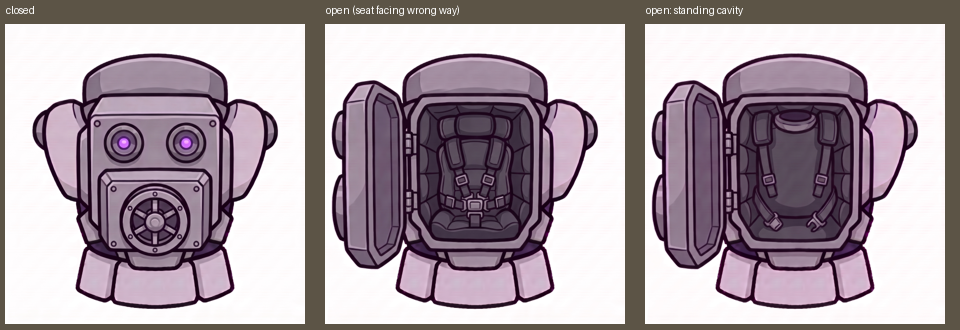
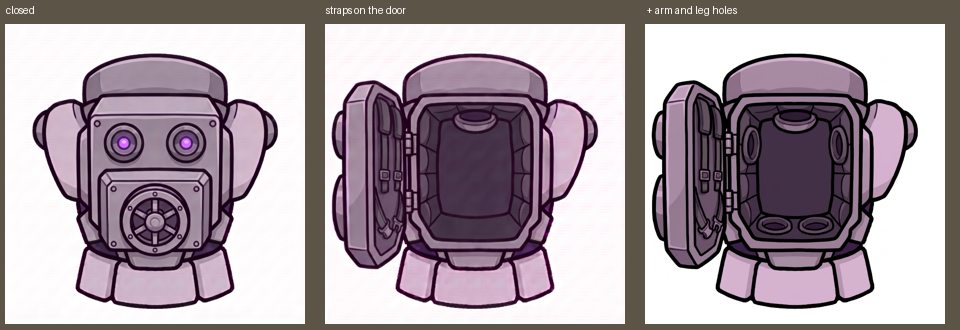
Bulwark open back: harness on the inside of the door, arm/leg/neck holes in the cavity
Claude-Session: https://claude.ai/code/session_01GM4XsNt8FF8EEgy8oUJDKj

diff --git a/docs/DESIGN.md b/docs/DESIGN.md
@@ -161,6 +161,6 @@ as separate apparel with their own hit points.
 ### Entry: the back opens
 
 The suit is entered from behind: the whole back panel (power-cell caps and release wheel on it) is hinged on
-one side and swings open like a door, showing an upright padded cavity for a standing pilot (who faces away from the viewer: no seat), with loose harness straps
+one side and swings open like a door, showing an upright padded cavity for a standing pilot (who faces away from the viewer: no seat) with arm holes in the side walls, leg holes in the floor and the neck hole at the top; the harness straps are on the inside of the door and close around the pilot's back
 (`chassis_bulwark_north_open.png`). Used for the empty/parked suit and as a frame of the climb-in animation
 (turn the release wheel, back swings open, pilot climbs in, back closes).
